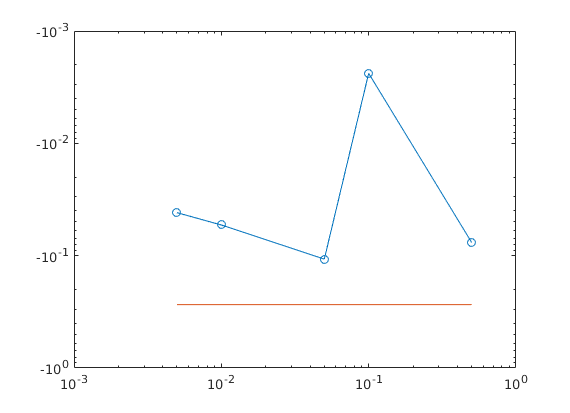
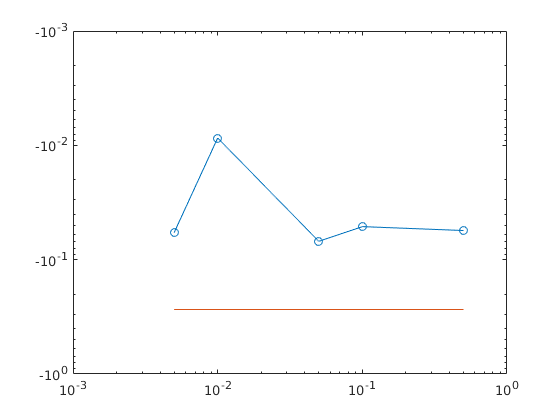
20180126_16_00

diff --git a/matlab/lab3/html/lab6.html b/matlab/lab3/html/lab6.html
@@ -76,12 +76,12 @@ xvid4 = 1/(N-1)* ((lab3_fun(t(1)) + lab3_fun(t(end)))/2 + sum(lab3_fun(t(2:end-1
 </pre><pre class="codeoutput">
 xvid3a =
 
-   -0.0415
+   -0.0422
 
 
 xvid3b =
 
-   -0.0523
+   -0.0472
 
 
 h =
@@ -91,12 +91,12 @@ h =
 
 xvid3c =
 
-   -0.0681
+   -0.0537
 
 
 xvid4 =
 
-   -0.0524
+   -0.0430
 
 </pre><h2 id="2">istas videjas veribas atra&#353;ana</h2><div><ul><li>sinuso&#299;da</li></ul></div><pre class="codeinput">syms <span class="string">t_sin</span><span class="comment">%% Vid&#275;jas vert&#299;bas apr&#275;&#311;ins</span>
 t = 0:0.01:5.5;
@@ -109,12 +109,12 @@ xvid4 = 1/(N-1)* ((lab3_fun(t(1)) + lab3_fun(t(end)))/2 + sum(lab3_fun(t(2:end-1
 </pre><pre class="codeoutput">
 xvid3a =
 
-   -0.0420
+   -0.0523
 
 
 xvid3b =
 
-   -0.0674
+   -0.0808
 
 
 h =
@@ -124,12 +124,12 @@ h =
 
 xvid3c =
 
-   -0.0475
+   -0.0404
 
 
 xvid4 =
 
-   -0.0498
+   -0.0241
 
 </pre><h2 id="3">istas videjas veribas atra&#353;ana</h2><div><ul><li>sinuso&#299;da</li></ul></div><pre class="codeinput">syms <span class="string">t_sin</span>
 A0=0; A=-2.5; T = (2.5-1)/6; f = 1/T;
@@ -216,11 +216,11 @@ ista_vv =
 
    -0.2727
 
-|platums=5.000000e-01	|vv3c=-7.629631e-02
-|platums=1.000000e-01	|vv3c=-2.381275e-03
-|platums=5.000000e-02	|vv3c=-1.072599e-01
-|platums=1.000000e-02	|vv3c=-5.332940e-02
-|platums=5.000000e-03	|vv3c=-4.140930e-02
+|platums=5.000000e-01	|vv3c=-5.562008e-02
+|platums=1.000000e-01	|vv3c=-5.139452e-02
+|platums=5.000000e-02	|vv3c=-6.913156e-02
+|platums=1.000000e-02	|vv3c=-8.629265e-03
+|platums=5.000000e-03	|vv3c=-5.808270e-02
 </pre><img vspace="5" hspace="5" src="lab6_01.png" alt=""> <h2 id="4">Simulink apr&#275;&#311;ini</h2><p><img vspace="5" hspace="5" src="../a.png" alt=""> </p><p><img vspace="5" hspace="5" src="../b.png" alt=""> </p><p><img vspace="5" hspace="5" src="../d.png" alt=""> </p><h2 id="5">Secin&#257;jumi</h2><p>Simulinkam lai tas straadatu vajadzetu komandlogaa nodefin&#275;t dtc = 0.01 Ar matlab programaturu mes iemacijamies  apreikinat videju  vertibu un efiktivu vertibu ar dazadiem formulam(metodiem),ka ari iemacijamies ar Simulinku modelet funkcijas videju vertibu apreikinasanu.</p><p class="footer"><br><a href="http://www.mathworks.com/products/matlab/">Published with MATLAB&reg; R2017b</a><br></p></div><!--
 ##### SOURCE BEGIN #####
 %% 6 Laboratorijas darbs
